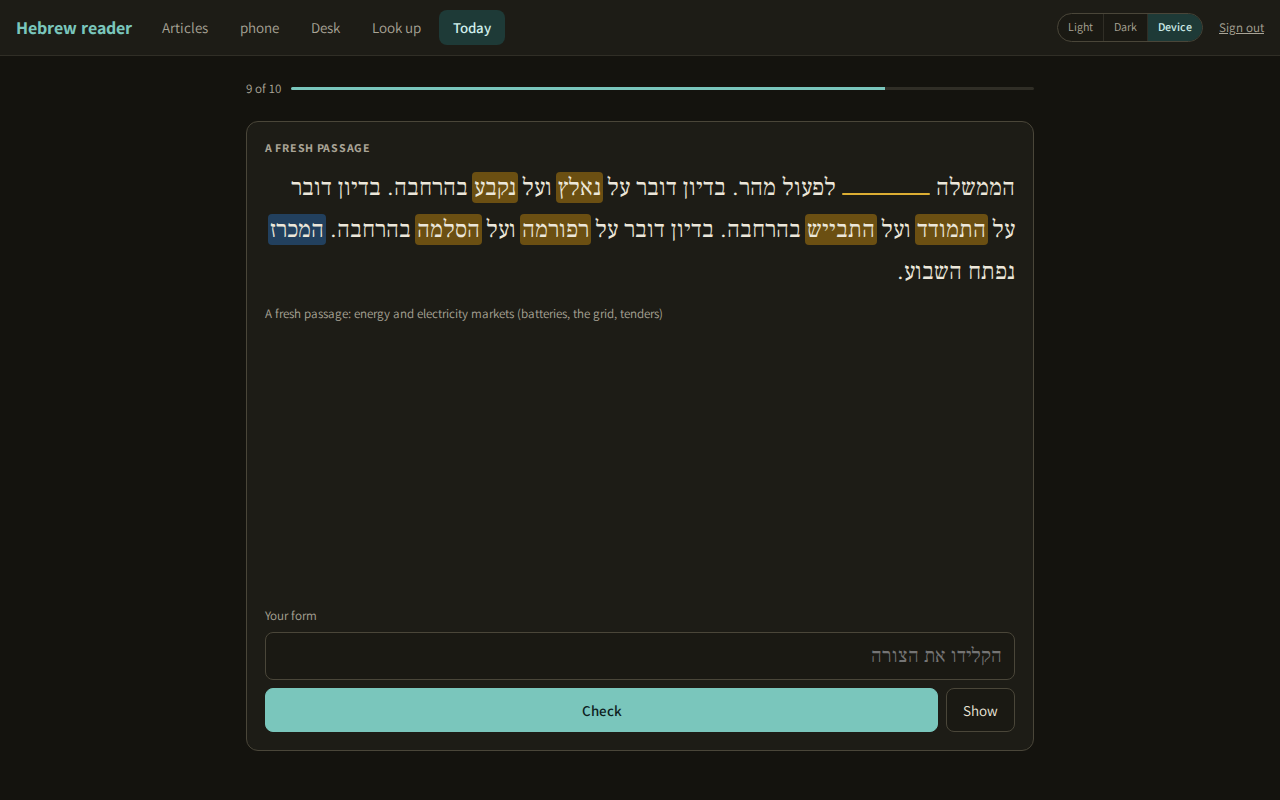
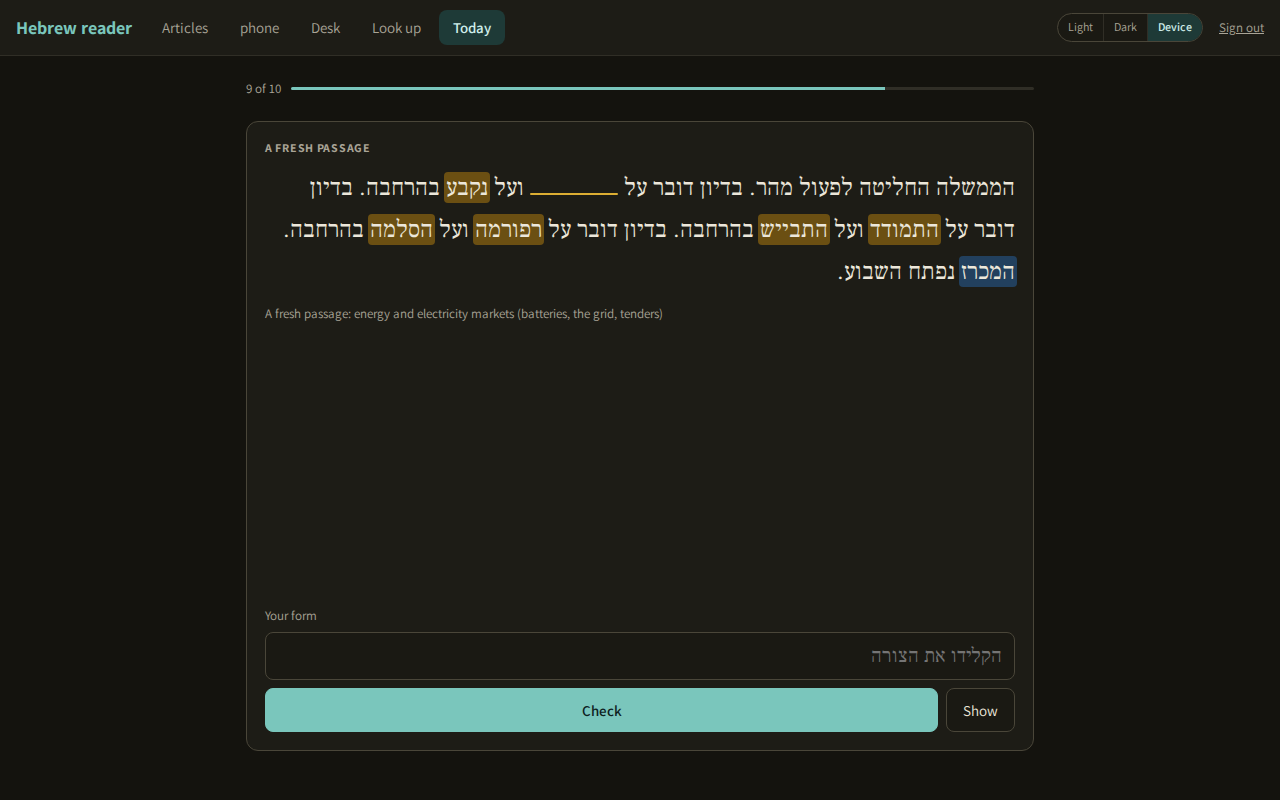
Today: shaky before new, new words judged once (spots.easy), passage verb from Dan's words never basic, Too easy marks solid; docs and counts

Changed region(s): [[0.1875, 0.1875, 0.8125, 0.375]]

diff --git a/lib/today.js b/lib/today.js
@@ -301,12 +301,59 @@ function pool(spots, group) {
   };
 }
 
+// --- is a new word worth drilling? -----------------------------------------------------
+// Every single-word item of Guy's lessons lands on the map, ordinals,
+// colours and days included ("ראשון and צבעי were too easy", Dan, 16 Oct
+// 2026). A word Dan only met (new) is judged once by the model — would an
+// advanced reader of Israeli news know it cold? — in one call per set build
+// over the words not yet judged, and the judgment is kept on the spot
+// (spots.easy). A word judged easy is not drilled. When the model does not
+// answer, nothing is kept and the set is chosen as before.
+
+const JUDGE_MAX = 40;
+const JUDGE_SYSTEM = `You judge Hebrew words for an advanced reader of Israeli news and business Hebrew who reads newspapers daily.
+For each word given (its dictionary form, meaning and the reader's weakness categories), say whether such a reader would already know it cold: basic vocabulary, ordinals, numbers, colours, days and months, the commonest nouns, verbs and adjectives are "easy"; anything a reader of this level could still stumble on (register, rarer roots, tricky forms, prepositions it governs, spelling traps) is not.
+Answer with ONE JSON object and nothing else: {"words": [{"id": "<the id given>", "easy": true or false}, ...]}, one entry per word given.`;
+
+async function judgeNew(spots) {
+  const todo = spots.filter((s) => s.status === 'new' && (s.easy === null || s.easy === undefined)).slice(0, JUDGE_MAX);
+  if (!todo.length) return 0;
+  const lines = todo.map((s) => {
+    const c = (db.newestCardOfSpot(s.id) || {}).card || {};
+    return JSON.stringify({ id: s.id, word: s.lemma || c.surface || '', meaning: c.meaning_en || '', categories: s.categories || [] });
+  });
+  let raw;
+  try {
+    raw = await lookup.chat({ system: JUDGE_SYSTEM, user: `Difficulty request\nWords, one per line:\n${lines.join('\n')}`, maxTokens: 60 + 30 * todo.length, what: 'The words could not be judged', retryParse: true });
+  } catch (e) {
+    console.error(`today: ${e.message}; new words drilled unjudged`);
+    return 0;
+  }
+  const ids = new Set(todo.map((s) => s.id));
+  let n = 0;
+  for (const w of (raw && Array.isArray(raw.words) ? raw.words : [])) {
+    if (!w || !ids.has(w.id) || typeof w.easy !== 'boolean') continue;
+    db.setEasy(w.id, w.easy);
+    const s = todo.find((x) => x.id === w.id);
+    s.easy = w.easy ? 1 : 0;
+    ids.delete(w.id);
+    n++;
+  }
+  console.log(`today: ${n} of ${todo.length} new words judged (${todo.filter((s) => s.easy === 1).map((s) => s.lemma).join(', ') || 'none'} easy)`);
+  return n;
+}
+
 async function chooseWords(day) {
   const due = db.dueSpots(day);
-  const learning = (s) => s.status === 'shaky' || s.status === 'new';
+  const learning = (s) => (s.status === 'shaky' || s.status === 'new') && s.easy !== 1;
+  // shaky (saved) words before new (only met), each group in the order dueSpots gives
+  const shakyFirst = (list) => [...list.filter((s) => s.status === 'shaky'), ...list.filter((s) => s.status !== 'shaky')];
   const solid = due.filter((s) => s.status === 'solid' && s.due_on).sort((a, b) => a.due_on.localeCompare(b.due_on) || a.id.localeCompare(b.id));
-  const lessons = pool(due.filter((s) => learning(s) && s.from_lesson), 'lesson');
-  const articles = pool(due.filter((s) => learning(s) && !s.from_lesson && s.from_article), 'article');
+  const fromLessons = shakyFirst(due.filter((s) => (s.status === 'shaky' || s.status === 'new') && s.from_lesson));
+  const fromArticles = shakyFirst(due.filter((s) => (s.status === 'shaky' || s.status === 'new') && !s.from_lesson && s.from_article));
+  await judgeNew([...fromLessons, ...fromArticles]);
+  const lessons = pool(fromLessons.filter(learning), 'lesson');
+  const articles = pool(fromArticles.filter(learning), 'article');
   const a = await pool(solid, 'solid').take(1);
   const bCap = WORDS - 2 - a.length;
   const b = await lessons.take(bCap);
@@ -331,6 +378,10 @@ const SUBJECTS = [
   'twentieth-century history',
 ];
 const MIN_FOUND = 3;
+// Verbs too basic to blank in a passage: by dictionary form (the model names
+// it), and their commonest past forms, should the model not.
+const BASIC_VERBS = new Set(['היה', 'אמר', 'עשה', 'הלך', 'בא', 'נתן', 'לקח', 'ראה', 'יצא', 'ידע', 'רצה', 'יכול', 'יכל', 'שם', 'קם', 'ישב', 'אכל', 'שתה', 'דיבר', 'חשב', 'עבד', 'התחיל', 'נשאר', 'חזר', 'שאל', 'ענה', 'קרא', 'כתב', 'הגיע', 'מצא', 'שמע', 'נכנס', 'אהב', 'גר', 'קנה', 'עמד', 'הביא']);
+const BASIC_FORMS = new Set(['היה', 'הייתה', 'היתה', 'היו', 'יהיה', 'תהיה', 'יהיו', 'אמר', 'אמרה', 'אמרו', 'עשה', 'עשתה', 'עשו', 'הלך', 'הלכה', 'הלכו', 'בא', 'באה', 'באו', 'נתן', 'נתנה', 'נתנו', 'לקח', 'לקחה', 'לקחו', 'ראה', 'ראתה', 'ראו', 'יצא', 'יצאה', 'יצאו', 'ידע', 'ידעה', 'ידעו', 'רצה', 'רצתה', 'רצו', 'יכול', 'יכולה', 'יכולים']);
 
 const PASSAGE_SYSTEM = `You write short reading passages for an advanced reader of Israeli news and business Hebrew.
 Write ONE passage of three to five sentences of Israeli-news or business Hebrew on the subject given, without nikud.
@@ -338,21 +389,22 @@ Use at least four of the reader's words given (all of them when there are four o
 You may use at most two words an advanced reader would likely not know; list them in "new_words" exactly as they stand in the passage, with their meaning.
 "english" is a faithful English rendering of the whole passage.
 "used" lists each of the reader's words you used, with the form as it stands in the passage.
-For the question kind "verb": "verb" is one verb of the passage, exactly as it stands in it (prefixes included), to be blanked; "question_he" is "", "choices" is ["", "", ""], "answer_index" is 0.
-For the question kind "comprehension": "verb" is ""; "question_he" is one question in Hebrew about the passage's content; "choices" are three short Hebrew answers, exactly one right; "answer_index" is the right one's index (0, 1 or 2).
+For the question kind "verb": "verb" is the verb of the passage to be blanked, exactly as it stands in it (prefixes included): one of the reader's words that is a verb, where you used one; else the least common verb in the passage, never a basic verb (such as היה, אמר, עשה, הלך, בא, נתן, לקח, ראה, יצא, רצה); "verb_lemma" is its dictionary form; "question_he" is "", "choices" is ["", "", ""], "answer_index" is 0.
+For the question kind "comprehension": "verb" and "verb_lemma" are ""; "question_he" is one question in Hebrew about the passage's content; "choices" are three short Hebrew answers, exactly one right; "answer_index" is the right one's index (0, 1 or 2).
 Answer with ONE JSON object and nothing else.`;
 
 const PASSAGE_SCHEMA = {
   name: 'today_passage',
   schema: {
     type: 'object', additionalProperties: false,
-    required: ['hebrew', 'english', 'used', 'new_words', 'verb', 'question_he', 'choices', 'answer_index'],
+    required: ['hebrew', 'english', 'used', 'new_words', 'verb', 'verb_lemma', 'question_he', 'choices', 'answer_index'],
     properties: {
       hebrew: { type: 'string' },
       english: { type: 'string' },
       used: { type: 'array', items: { type: 'object', additionalProperties: false, required: ['word', 'form'], properties: { word: { type: 'string' }, form: { type: 'string' } } } },
       new_words: { type: 'array', items: { type: 'object', additionalProperties: false, required: ['surface', 'meaning_en'], properties: { surface: { type: 'string' }, meaning_en: { type: 'string' } } } },
       verb: { type: 'string' },
+      verb_lemma: { type: 'string' },
       question_he: { type: 'string' },
       choices: { type: 'array', items: { type: 'string' } },
       answer_index: { type: 'integer' },
@@ -408,8 +460,15 @@ async function onePassage({ given, subject, question }) {
     .filter((w) => w.surface && tok.words(text).some((t) => t.surface === w.surface)).slice(0, 2);
   let q;
   if (question === 'verb') {
-    const at = demand.findSurface(text, bare(raw.verb).trim());
-    if (!at) return { failed: 'question', why: `the verb to blank (${raw.verb || 'none'}) is not a word of the passage` };
+    // one of Dan's own shaky verbs where the passage has one; else the
+    // model's verb, never a basic one
+    const own = found.find((f) => (db.getSpot(f.spot_id) || {}).kind === 'verb');
+    const verb = own ? own.surface : bare(raw.verb).trim();
+    const v = letters(verb);
+    const basicForm = [v, ...tok.PROCLITICS.filter((p) => v.startsWith(p)).map((p) => v.slice(p.length))].some((x) => BASIC_FORMS.has(x));
+    if (!own && (BASIC_VERBS.has(letters(raw.verb_lemma)) || basicForm)) return { failed: 'question', why: `the verb to blank (${verb}, ${raw.verb_lemma || 'no dictionary form given'}) is a basic verb` };
+    const at = demand.findSurface(text, verb);
+    if (!at) return { failed: 'question', why: `the verb to blank (${verb || 'none'}) is not a word of the passage` };
     q = { type: 'form', text: text.slice(0, at.start) + '…' + text.slice(at.end), answer: text.slice(at.start, at.end) };
   } else {
     const choices = Array.isArray(raw.choices) ? raw.choices.map((c) => String(c || '').trim()) : [];
@@ -554,7 +613,7 @@ function view(set) {
   const items = set.items.map(withPointed).map((it) => {
     const answered = rows.filter((r) => r.item_index === it.index && r.result !== 'shown').at(-1) || null;
     const shown = rows.some((r) => r.item_index === it.index && r.result === 'shown');
-    return { ...it, answered: answered ? { id: answered.id, result: answered.result, answer: answered.answer, at: answered.at } : null, shown };
+    return { ...it, answered: answered ? { id: answered.id, result: answered.result, answer: answered.answer, at: answered.at, too_easy: answered.kind === TOO_EASY } : null, shown };
   });
   const next = items.find((it) => !it.answered);
   const last = rows.filter((r) => r.result !== 'shown').at(-1);
@@ -667,6 +726,30 @@ async function answer(body, { now = new Date() } = {}) {
 // POST /today/show { set_id, item_index }: records the show once (the item
 // then waits for Dan's own tap) and answers what Show reveals: the word's card,
 // or a passage's English.
+// POST /today/easy { set_id, item_index }: "Too easy" on a word item. The
+// word is marked solid through saveStatus (the spot, then the mark to the
+// spine); its schedule is left as it was. The tap is one drill_answers row:
+// result 'right' (the table takes right, wrong or shown) and kind 'too-easy',
+// with the word's fields before it, so Undo puts the word back like any answer.
+const TOO_EASY = 'too-easy';
+async function tooEasy(body, { now = new Date() } = {}) {
+  const { set, item, rows } = itemAt(body);
+  if (!item.spot_id) throw new db.ReaderError(400, 'Too easy is for a word; a passage has none to mark.');
+  const had = rows.find((r) => r.item_index === item.index && r.result !== 'shown');
+  if (had) throw new db.ReaderError(409, `Item ${item.index + 1} was already answered ${had.result}; Undo it first.`);
+  const spot = db.requireSpot(item.spot_id);
+  const before = { status: spot.status, due_on: spot.due_on, interval_days: spot.interval_days, right_run: spot.right_run };
+  const id = db.addDrillAnswer({ set_id: set.id, item_index: item.index, spot_id: spot.id, kind: TOO_EASY, result: 'right', answer: null, at: now.toISOString(), before });
+  const marked = await markAfter(spot.id, 'solid');
+  const pointed = pointedWord(spot.id, item.word);
+  console.log(`today: set ${set.id} item ${item.index + 1} ${spot.id}: too easy, ${before.status} -> solid`);
+  return {
+    answer_id: id, result: 'right', too_easy: true,
+    flash: { word: item.word, word_pointed: pointed, result: 'right', status: 'solid', status_was: before.status, text: `${pointed || item.word} — too easy; marked solid` },
+    spot: marked.spot, spine: marked.spine, view: view(set),
+  };
+}
+
 async function show(body, { now = new Date() } = {}) {
   const { set, item, rows } = itemAt(body);
   const done = rows.some((r) => r.item_index === item.index && r.result !== 'shown');
@@ -710,4 +793,4 @@ async function undo(body) {
   return { undone: { answer_id: last.id, item_index: last.item_index, result: last.result, word: item.word || null, word_pointed: withPointed(item).word_pointed }, spot: marked.spot, spine: marked.spine, view: view(set) };
 }
 
-module.exports = { dayOf, addDays, ensureSet, nextBuildAt, startScheduler, current, view, answer, show, undo, judge, LADDER, build, chooseWords, makePassages, onePassage, wordsFound, sentenceCount, SENTENCES, itemFor, readsOf, misspelling, madeMisspellings, gapPreposition, prepositionOf, PREPOSITIONS, SUBJECTS, MIN_FOUND, TZ, SET_SIZE };
+module.exports = { dayOf, addDays, ensureSet, nextBuildAt, startScheduler, current, view, answer, show, undo, tooEasy, judge, judgeNew, BASIC_VERBS, LADDER, build, chooseWords, makePassages, onePassage, wordsFound, sentenceCount, SENTENCES, itemFor, readsOf, misspelling, madeMisspellings, gapPreposition, prepositionOf, PREPOSITIONS, SUBJECTS, MIN_FOUND, TZ, SET_SIZE };

diff --git a/public/today.js b/public/today.js
@@ -116,7 +116,7 @@ function place() {
 }
 
 function hideAll() {
-  for (const id of ['typed', 'choices', 'reveal', 'self', 'flash', 'after', 'english', 'question', 'english-show']) $('#' + id).classList.add('hidden');
+  for (const id of ['typed', 'choices', 'reveal', 'self', 'flash', 'after', 'english', 'question', 'english-show', 'easy']) $('#' + id).classList.add('hidden');
   $('#answer-msg').textContent = '';
   $('#answer-msg').className = 'msg';
 }
@@ -157,6 +157,8 @@ function drawItem(it) {
   mixed($('#source'), it.source || '');
   $('#english').textContent = it.english || '';
   if (it.answered) return drawAnswered(it);
+  // "Too easy": a word Dan knows cold is marked solid and leaves the drills
+  $('#easy').classList.toggle('hidden', !it.spot_id);
   if (it.kind === 'form' || (it.kind === 'passage' && it.question.type === 'form')) {
     $('#typed').classList.remove('hidden');
     $('#answer').value = '';
@@ -226,13 +228,13 @@ async function showNow() {
 
 // One answer: a typed form, a choice, or Dan's own tap. The flash names the
 // word and the result, with Undo; Next goes on.
-async function send(body, button) {
+async function send(body, button, path = '/today/answer') {
   const it = view.items[at];
   const msg = $('#answer-msg');
   msg.className = 'msg'; msg.textContent = '';
-  for (const b of document.querySelectorAll('#answer-zone button')) b.disabled = true;
+  for (const b of document.querySelectorAll('#answer-zone button, #easy')) b.disabled = true;
   try {
-    const data = await api('POST', '/today/answer', { set_id: view.set.id, item_index: it.index, ...body });
+    const data = await api('POST', path, { set_id: view.set.id, item_index: it.index, ...body });
     view = data.view;
     hideAll();
     if (it.kind === 'form' || it.kind === 'preposition' || it.kind === 'spelling' || (it.kind === 'passage' && it.question.type === 'form')) setGap(data.result === 'right' ? 'right' : 'shown', revealedAnswer(it));
@@ -254,7 +256,7 @@ async function send(body, button) {
   } catch (e) {
     msg.className = 'msg error'; msg.textContent = e.message;
   } finally {
-    for (const b of document.querySelectorAll('#answer-zone button')) b.disabled = false;
+    for (const b of document.querySelectorAll('#answer-zone button, #easy')) b.disabled = false;
   }
 }
 
@@ -304,7 +306,7 @@ function drawDone() {
   list.innerHTML = '';
   for (const it of view.items) {
     const li = el('li', 'result-' + (it.answered ? it.answered.result : 'none'));
-    li.append(el('span', 'he', it.kind === 'passage' ? '' : it.word_pointed || it.word || ''), el('span', 'what', it.kind === 'passage' ? it.source : KIND[it.kind]), el('span', 'res', it.answered ? it.answered.result : ''));
+    li.append(el('span', 'he', it.kind === 'passage' ? '' : it.word_pointed || it.word || ''), el('span', 'what', it.kind === 'passage' ? it.source : KIND[it.kind]), el('span', 'res', it.answered ? (it.answered.too_easy ? 'too easy' : it.answered.result) : ''));
     list.append(li);
   }
   $('#done').classList.remove('hidden');
@@ -344,6 +346,7 @@ $('#reveal-show').addEventListener('click', showNow);
 $('#had').addEventListener('click', () => send({ result: 'right' }));
 $('#missed').addEventListener('click', () => send({ result: 'wrong' }));
 $('#undo').addEventListener('click', undoLast);
+$('#easy').addEventListener('click', () => send({}, null, '/today/easy'));
 $('#next').addEventListener('click', next);
 $('#english-show').addEventListener('click', async () => {
   const it = view.items[at];

diff --git a/lib/db.js b/lib/db.js
@@ -246,6 +246,13 @@ function migrate() {
              ALTER TABLE spots ADD COLUMN right_run INTEGER NOT NULL DEFAULT 0;`);
     console.log('database: added spots.due_on (null: never drilled), interval_days, right_run');
   }
+  // hebrew-today-one-fixes: whether a word Dan only met (new) is one an
+  // advanced reader would know cold — null until the model has judged it
+  // (once), 1 easy (not drilled), 0 worth drilling
+  if (!db.prepare('PRAGMA table_info(spots)').all().some((c) => c.name === 'easy')) {
+    db.exec('ALTER TABLE spots ADD COLUMN easy INTEGER');
+    console.log('database: added spots.easy (null: not judged yet)');
+  }
   // the day's set of drills (one per Tokyo day) and every answer given in it;
   // before_json is the word's three fields and status before the answer, so
   // Undo can put them back
@@ -1036,6 +1043,11 @@ function spotSources(spotId) {
   return { lesson, article };
 }
 
+// The model's one judgment of a word: easy (1) or worth drilling (0).
+function setEasy(id, easy) {
+  db.prepare('UPDATE spots SET easy = ? WHERE id = ?').run(easy ? 1 : 0, id);
+}
+
 function setSchedule(id, { due_on, interval_days, right_run }) {
   db.prepare('UPDATE spots SET due_on = ?, interval_days = ?, right_run = ? WHERE id = ?').run(due_on, interval_days, right_run, id);
   return getSpot(id);
@@ -1125,6 +1137,6 @@ module.exports = {
   demandCandidates, cardForSurface, getTranslation, putTranslation,
   recentArticles, touchesAcross,
   addLesson, getLesson, lessonByText, listLessons, setLessonGuide, setLessonDate, setLessonSaved, deleteLesson,
-  dueSpots, shakyForPassages, lessonTouches, spotSources, setSchedule, addDrillSet, drillSetForDay, getDrillSet,
+  dueSpots, shakyForPassages, lessonTouches, spotSources, setSchedule, setEasy, addDrillSet, drillSetForDay, getDrillSet,
   oldestUnfinishedSet, latestDrillSet, passagesBuilt, addDrillAnswer, drillAnswersOf, lastDrillAnswer, deleteDrillAnswer, spotResults,
 };

diff --git a/server.js b/server.js
@@ -421,6 +421,8 @@ route('GET', /^\/today\/set$/, async (req, res) => sendJson(res, 200, await toda
 route('POST', /^\/today\/answer$/, async (req, res) => sendJson(res, 200, await today.answer(await readJson(req))));
 // { set_id, item_index } -> what Show reveals; the show is recorded
 route('POST', /^\/today\/show$/, async (req, res) => sendJson(res, 200, await today.show(await readJson(req))));
+// "Too easy": { set_id, item_index } -> the word marked solid (through the save), the tap recorded like an answer
+route('POST', /^\/today\/easy$/, async (req, res) => sendJson(res, 200, await today.tooEasy(await readJson(req))));
 // { set_id, answer_id? } -> the set's last answer undone, its word put back
 route('POST', /^\/today\/undo$/, async (req, res) => sendJson(res, 200, await today.undo(await readJson(req))));
 

diff --git a/public/app.css b/public/app.css
@@ -206,6 +206,7 @@ h1.headline { margin: 0; direction: rtl; text-align: right; font-family: var(--s
 .today-item .form-line { font-size: 14px; color: var(--muted); }
 .today-item .form-line .he { direction: rtl; unicode-bidi: isolate; font-weight: 600; font-family: var(--serif); font-size: 16px; }
 .today-source { margin: 0; font-size: 13px; color: var(--muted); }
+.today-easy { align-self: flex-start; font-size: 13px; padding: 4px 0; }
 .today-source .he, .today-flash .he { font-family: var(--serif); font-size: 1.1em; }
 .today-english { font-size: 15px; line-height: 1.5; border-left: 3px solid var(--line-strong); padding-left: 10px; }
 .today-answer { margin-top: auto; display: flex; flex-direction: column; gap: 10px; }

diff --git a/public/today.html b/public/today.html
@@ -41,6 +41,7 @@
     <div class="today-question hidden" id="question" lang="he" dir="rtl"></div>
     <div class="form-line" id="hint"></div>
     <p class="today-source" id="source"></p>
+    <button class="linklike today-easy hidden" id="easy" type="button">Too easy</button>
     <div class="today-english hidden" id="english"></div>
 
     <div class="today-answer" id="answer-zone">

diff --git a/docs/CHECKS.md b/docs/CHECKS.md
@@ -10,8 +10,8 @@ screenshot scripts, unchanged.
 | Check | What it proves |
 | - | - |
 | syntax | Every `.js`, `.mjs` and `.cjs` file outside `node_modules` parses (`node --check`, file by file). |
-| tests | `npm test` = `npm run smoke`: `scripts/smoke.mjs` (255 checks), `scripts/grow-smoke.mjs` (66), `scripts/paper-smoke.mjs` (81), `scripts/hunt-smoke.mjs` (39, "Find an article" against local news pages) and `scripts/lookup-smoke.mjs` (64, the Look up page and the references shown inside the reader, its redirect gate included, against local reference pages; about 25 s, because the 20-second fetch limit is timed for real) and `scripts/today-smoke.mjs` (89, the Today page's daily set: choosing the words, each word's exercise and the source it names, its read or made-up sentence, fresh passages and their length, when a set is made, the 05:00 Tokyo scheduler, answers, Show and Undo, an older page's Undo refused; about 3 s; its day-dependent rules call `lib/today.js` in the check's own process with a seeded clock), each against a real server with local stand-ins for OpenRouter, the spine and the reference sites (`scripts/mock-openrouter.mjs`, `scripts/mock-spine.mjs`, `scripts/mock-references.mjs`). 594 in all (16 Oct 2026). |
-| screenshots | `npm run screenshots`: `scripts/screenshots.mjs` (229), `desk-pages.mjs` (47), `grow-pages.mjs` (66), `paper-pages.mjs` (53), `hunt-pages.mjs` (23), `lookup-pages.mjs` (44), `today-pages.mjs` (57) — every screen at phone and computer size, signing in through the form; 519 in all (16 Oct 2026). Needs Playwright's browser. The Checks run keeps the hunt's screenshots as the artifact `hunt-screenshots`. |
+| tests | `npm test` = `npm run smoke`: `scripts/smoke.mjs` (255 checks), `scripts/grow-smoke.mjs` (66), `scripts/paper-smoke.mjs` (81), `scripts/hunt-smoke.mjs` (39, "Find an article" against local news pages) and `scripts/lookup-smoke.mjs` (64, the Look up page and the references shown inside the reader, its redirect gate included, against local reference pages; about 25 s, because the 20-second fetch limit is timed for real) and `scripts/today-smoke.mjs` (108, the Today page's daily set: choosing the words (shaky before new, new words judged once by the model, the easy ones skipped), each word's exercise and the source it names, its read or made-up sentence, answers with niqud, fresh passages, their length and the verb they blank, "Too easy", when a set is made, the 05:00 Tokyo scheduler, answers, Show and Undo, an older page's Undo refused; about 3 s; its day-dependent rules call `lib/today.js` in the check's own process with a seeded clock), each against a real server with local stand-ins for OpenRouter, the spine and the reference sites (`scripts/mock-openrouter.mjs`, `scripts/mock-spine.mjs`, `scripts/mock-references.mjs`). 613 in all (16 Oct 2026). |
+| screenshots | `npm run screenshots`: `scripts/screenshots.mjs` (229), `desk-pages.mjs` (47), `grow-pages.mjs` (66), `paper-pages.mjs` (53), `hunt-pages.mjs` (23), `lookup-pages.mjs` (44), `today-pages.mjs` (67) — every screen at phone and computer size, signing in through the form; 529 in all (16 Oct 2026). Needs Playwright's browser. The Checks run keeps the hunt's screenshots as the artifact `hunt-screenshots`. |
 | (by hand) the frame test | `node scripts/reference-frames.mjs`: asks the seven live reference sites whether they can be framed. Not in `npm run check` (it reaches the live sites); its last result is in `docs/REFERENCES.md`. |
 
 The fast tests, `npm run test:fast`, are grow, paper and hunt only:

diff --git a/PLAN.md b/PLAN.md
@@ -1311,6 +1311,38 @@ day's words with their results. Nothing due: "Nothing is due today".
   breaks); the stand-in now writes five, and one of eight is refused with
   "No fresh passages today; the passages written were not three to five
   sentences." On the page the gap fills with the right answer after a
-  preposition or a spelling too. Checks: `today-smoke.mjs` 89 (each
-  preposition path, the spelling fallback, the length rule),
-  `today-pages.mjs` 57; totals 594 server checks and 519 page checks.
+  preposition or a spelling too.
+- **Answers with niqud** (Dan, 16 Oct 2026). Wherever the page reveals or
+  confirms an answer — the flash, Show, the filled gap of Give the form, the
+  right preposition, the right spelling, the day's list — the word carries
+  its niqud from its card as it stands when the set is served
+  (`word_pointed`, `answer_pointed`): the pointed word when the card is for
+  that very form, else the pointed dictionary form, else the word plain. A
+  preposition's niqud comes from a fixed table beside the list of
+  prepositions (a card holds none for it). The questions and the choices to
+  tap stay plain, so niqud gives nothing away.
+- **Better judgment in choosing words** (Dan, after his first real use:
+  "ראשון and צבעי were too easy"). Every single-word item of a lesson lands
+  on the map as new, ordinals and colours included, so: shaky words now come
+  before new ones among lesson and among article words; each new word is
+  judged once by the model — would an advanced reader of Israeli news know
+  it cold? — in one call per set build (up to 40 words not yet judged: the
+  card's word, meaning and categories), and the judgment is kept in
+  `spots.easy` (`ALTER TABLE … ADD COLUMN`; null until judged, 1 easy, 0
+  worth drilling); a word judged easy is not drilled; when the model does
+  not answer nothing is kept and the set is chosen as before. A passage's
+  blanked verb is one of Dan's given shaky verbs wherever the passage has
+  one (the server picks it, whatever the model named); else the model's
+  verb, refused — and the passage not kept — when it is a basic verb (a
+  fixed list of dictionary forms and their commonest forms). "Too easy", a
+  small link on every word item, marks the word solid through `saveStatus`
+  (so the spine has it) and leaves its schedule as it was; it is one
+  `drill_answers` row with result `right` and kind `too-easy` (the table's
+  check allows only right, wrong and shown, and a table holding Dan's
+  answers is not rebuilt), with the word's fields before it, so Undo
+  reverses it like any answer; the day's list says "too easy".
+- **Checks** after these: `today-smoke.mjs` 108 (each preposition path, the
+  spelling fallback, the length rule, niqud on the answer fields, shaky
+  before new, the one judgment and the model down, the passage verb both
+  ways, "Too easy" and its Undo), `today-pages.mjs` 67; totals 613 server
+  checks and 529 page checks.
